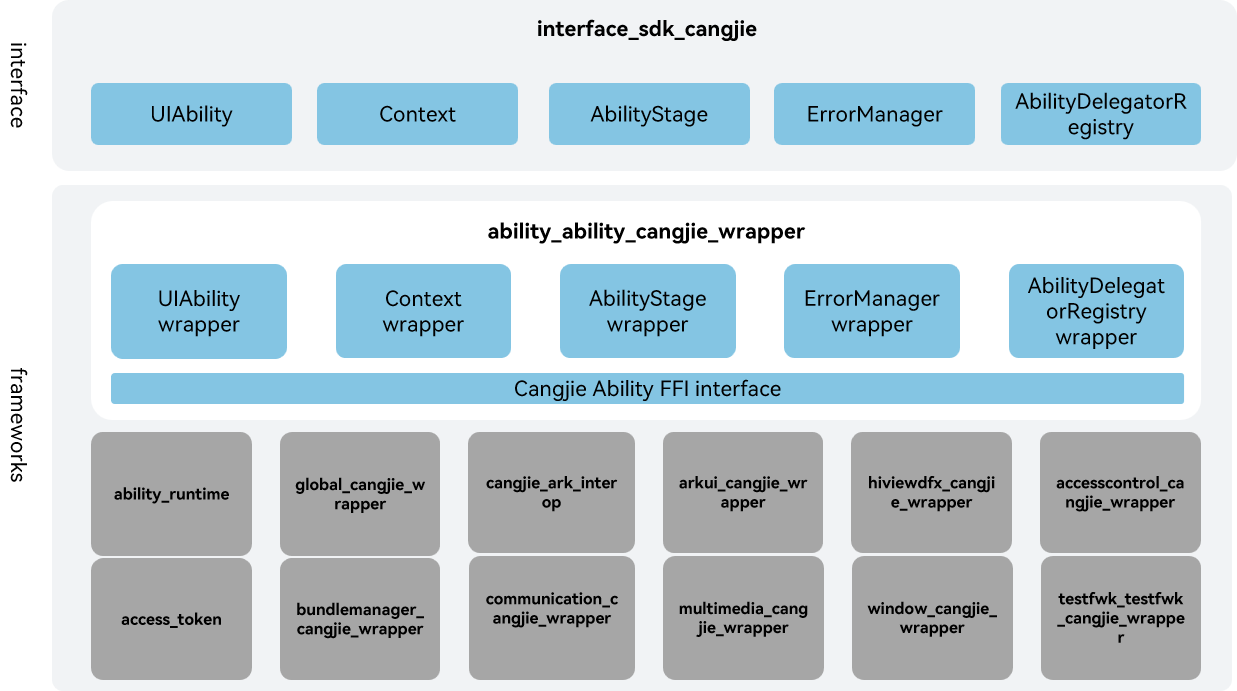
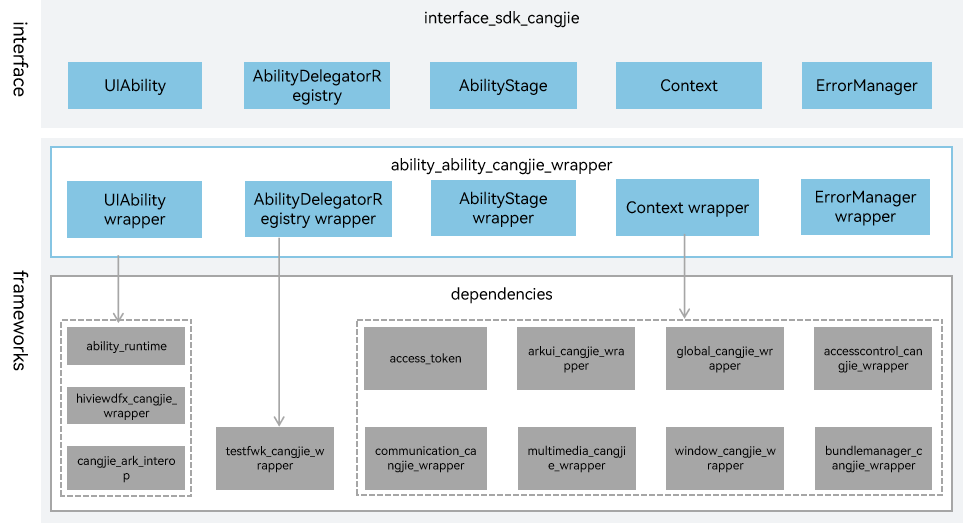
fix_pic

diff --git a/README.md b/README.md
@@ -12,7 +12,7 @@ The ability_cangjie_wrapper is a Cangjie API encapsulated on OpenHarmony based o
 
 As shown in the architecture:
 
-interface: Provides APIs for developers.
+interface:
 
 - UIAbility: UIAbility is an application component that has the UI. It provides lifecycle callbacks such as component creation, destruction, and foreground/background switching. Users can inherit this class to implement monitoring capabilities for UIAbility components.
 - Context: The Context provides the capabilities to obtain component information. The UIAbilityContext provides the capabilities to launch or destroy other UIAbility. Users can obtain relevant information or launch other UIAbility through UIAbilityContext.
@@ -27,7 +27,9 @@ frameworks:
 - AbilityStage wrapper: Cangjie component manager encapsulation, encapsulating the AbilityStage class to provide component management capabilities.
 - ErrorManager wrapper: Cangjie error observation management encapsulation, encapsulating the ErrorObserver class to provide error observation management capabilities.
 - AbilityDelegatorRegistry wrapper: Cangjie automated test framework management encapsulation, encapsulating the AbilityDelegator and TestRunner classes to provide automated test framework management capabilities.
-- Cangjie Ability FFI interface: Based on cross-language interoperability via C interfaces to implement ability Cangjie API.
+
+Dependency Component Introduction in Architecture:
+
 - ability_runtime: It is responsible for providing basic functions of ability, and encapsulates C interfaces to provide interoperability for Cangjie.
 - access_token: Provides authorization modules for querying whether permissions have been granted. Depends on its authorization module.
 - cangjie_ark_interop: Responsible for providing APILevel definitions, used for annotating APIs. Also provides the BusinessException exception class definition that is thrown to users.

diff --git a/README_zh.md b/README_zh.md
@@ -27,7 +27,6 @@
 - 组件管理器封装：基于底层元能力运行时部件提供的元能力基础功能封装，通过AbilityStage类提供组件管理器能力。
 - 错误观测管理封装：基于底层元能力运行时部件提供的元能力基础功能封装，通过ErrorManager类提供错误观测管理能力。
 - 自动化测试框架管理封装：基于底层元能力运行时部件提供的元能力基础功能封装，通过AbilityDelegator类及TestRunner类提供自动化测试框架管理能力。
-- 仓颉元能力FFI接口定义：负责定义C语言互操作仓颉接口，用于实现仓颉元能力的能力。
 
 架构图中的依赖部件引入说明：
 
